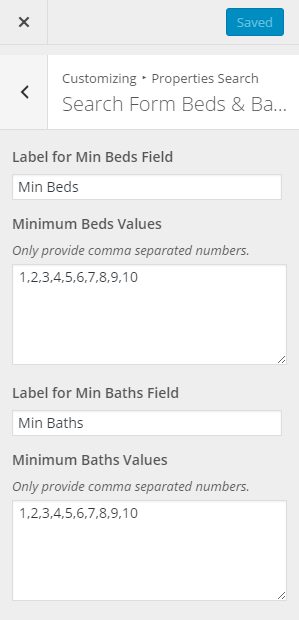
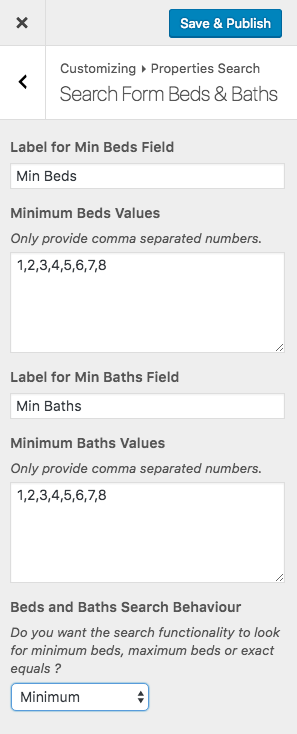
updated screens for property search

diff --git a/index.html b/index.html
@@ -714,6 +714,8 @@
 										<strong>1)</strong> You can modify the Labels for the Beds & Baths Field.
 										<br><br>
 										<strong>2)</strong> You can also provide the values to be displayed in the drop-down lists for both fields.
+                                        <br><br>
+                                        <strong>3)</strong> You can modify the search behaviour for beds and baths to Minimum, Maximum or Equals.
 									</p>
 								</div>
 							</div>
